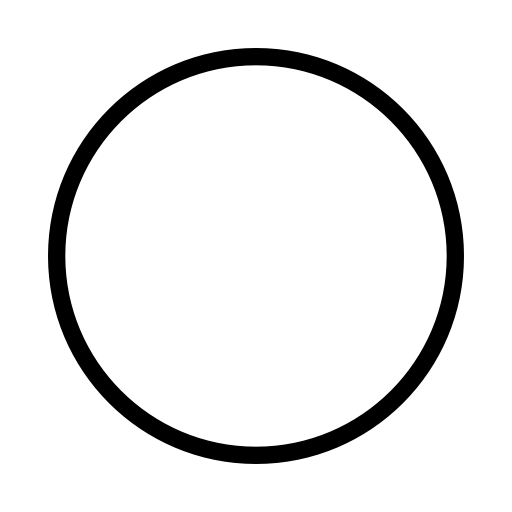
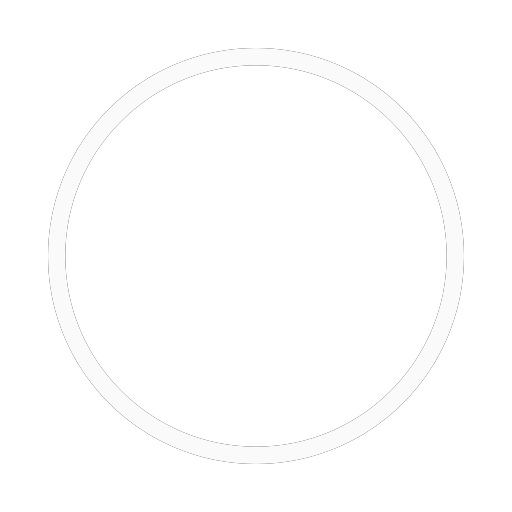
chenged colors

Changed region(s): [[0.0938, 0.0938, 0.9062, 0.9062]]

diff --git a/script.js b/script.js
@@ -1,5 +1,7 @@
 let winnersBoardContainer = document.getElementById('winners-board-container');
 let winnerText = document.getElementById('winner-text');
+let fields = Array.from(document.querySelectorAll('.field'))
+let button = document.getElementById('button');
 
 let handlers = {
     fieldsArray: [0,0,0,
@@ -35,38 +37,32 @@ let handlers = {
             this.fieldsArray[8] === symbol) {
             winnersBoardContainer.style.pointerEvents = 'all';
             this.createWinnersBoard(symbol)
-        } 
-        else if (this.fieldsArray[0] === symbol && 
+        } else if (this.fieldsArray[0] === symbol && 
             this.fieldsArray[3] === symbol && 
             this.fieldsArray[6] === symbol) {
             winnersBoardContainer.style.pointerEvents = 'all';
             this.createWinnersBoard(symbol)
-        } 
-        else if (this.fieldsArray[1] === symbol && 
+        } else if (this.fieldsArray[1] === symbol && 
             this.fieldsArray[4] === symbol && 
             this.fieldsArray[7] === symbol) {
             winnersBoardContainer.style.pointerEvents = 'all';
             this.createWinnersBoard(symbol)
-        } 
-        else if (this.fieldsArray[2] === symbol && 
+        } else if (this.fieldsArray[2] === symbol && 
             this.fieldsArray[4] === symbol && 
             this.fieldsArray[6] === symbol) {
             winnersBoardContainer.style.pointerEvents = 'all';
             this.createWinnersBoard(symbol)
-        } 
-        else if (this.fieldsArray[2] === symbol && 
+        } else if (this.fieldsArray[2] === symbol && 
             this.fieldsArray[5] === symbol && 
             this.fieldsArray[8] === symbol) {
             winnersBoardContainer.style.pointerEvents = 'all';
             this.createWinnersBoard(symbol)
-        } 
-        else if (this.fieldsArray[3] === symbol && 
+        } else if (this.fieldsArray[3] === symbol && 
             this.fieldsArray[4] === symbol && 
             this.fieldsArray[5] === symbol) {
             winnersBoardContainer.style.pointerEvents = 'all';
             this.createWinnersBoard(symbol)
-        } 
-        else if (this.fieldsArray[6] === symbol && 
+        } else if (this.fieldsArray[6] === symbol && 
             this.fieldsArray[7] === symbol && 
             this.fieldsArray[8] === symbol) {
             winnersBoardContainer.style.pointerEvents = 'all';
@@ -83,7 +79,6 @@ let handlers = {
 let lastSymbolUsed = 'cross';
 console.log(lastSymbolUsed);
 
-let fields = Array.from(document.querySelectorAll('.field'))
 fields.forEach(field => field.addEventListener('click', function(event) {
     if (field.firstChild === null) {
         if (lastSymbolUsed === 'cross') {
@@ -103,7 +98,6 @@ fields.forEach(field => field.addEventListener('click', function(event) {
     }
 }));
 
-let button = document.getElementById('button');
 button.addEventListener('click', function() {
     for (let i = 0; i < handlers.fieldsArray.length; i++) {
         handlers.fieldsArray[i] = '0';
@@ -114,7 +108,7 @@ button.addEventListener('click', function() {
             fields[i].removeChild(document.querySelector('img'));
         }   
     }
-    
+
     winnersBoardContainer.style.pointerEvents = 'none';
     winnersBoardContainer.style.opacity = '0';
     winnerText.innerHTML =  '';

diff --git a/style.css b/style.css
@@ -13,15 +13,15 @@ body {
     width: 100vw;
     align-items: center;
     justify-content: center;
-    background: white;
+    background: rgb(66, 63, 63);
 }
 
 .game-board {
     display: grid;
     grid-template-columns: repeat(3, auto);
     grid-template-rows: repeat(3, auto);
-    grid-gap: 10px;
-    background: black;
+    grid-gap: 8px;
+    background: white;
 }
 
 .field {
@@ -30,7 +30,7 @@ body {
     justify-content: center;
     height: 140px;
     width: 140px;
-    background: white;
+    background:rgb(66, 63, 63);
 }
 
 .cross-image {
@@ -48,7 +48,7 @@ body {
     transition: .5s;
     opacity: 0;
     position: absolute;
-    background:rgba(255, 255, 255, 0.8);
+    background:rgba(255, 255, 255, 0.5);
     font-weight: bold;
     color: black;
     height: 100vh;
